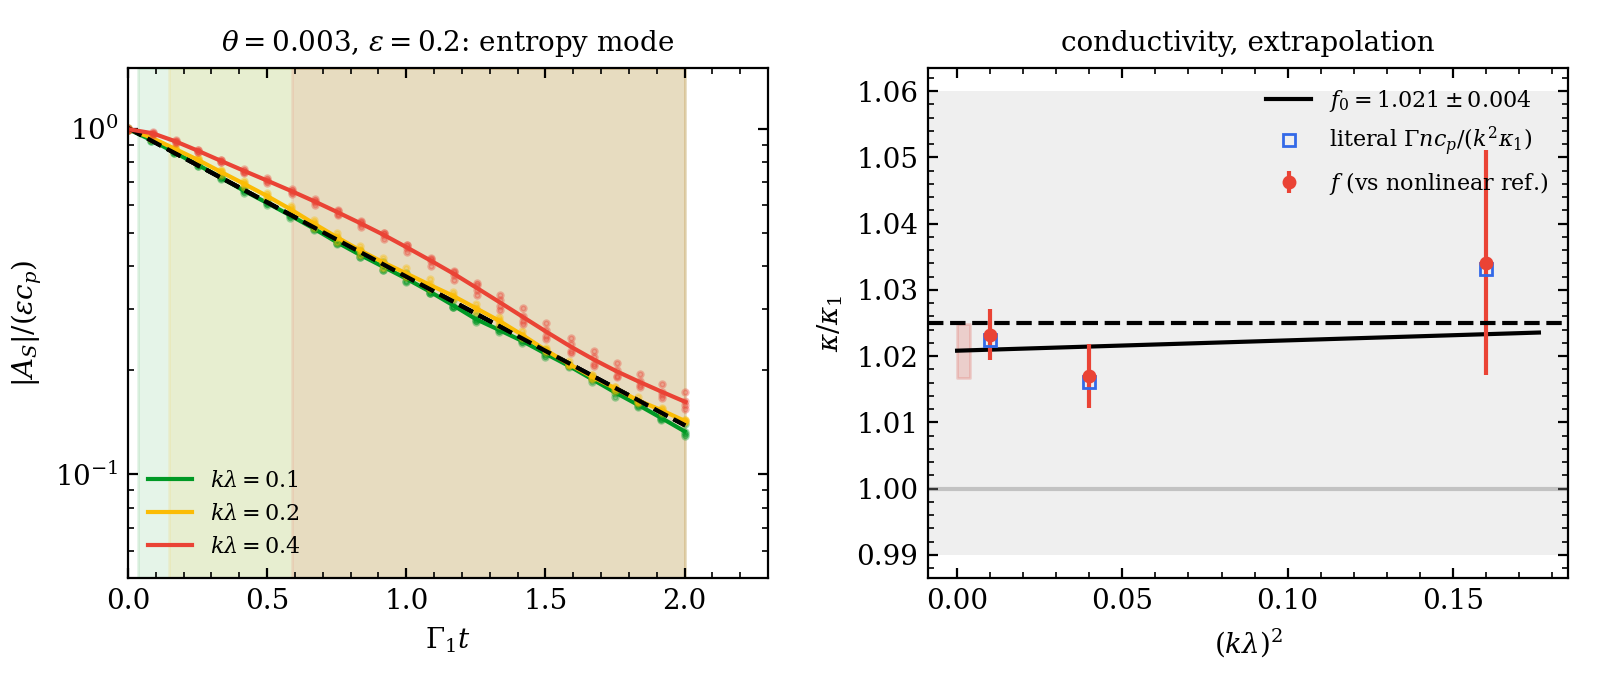
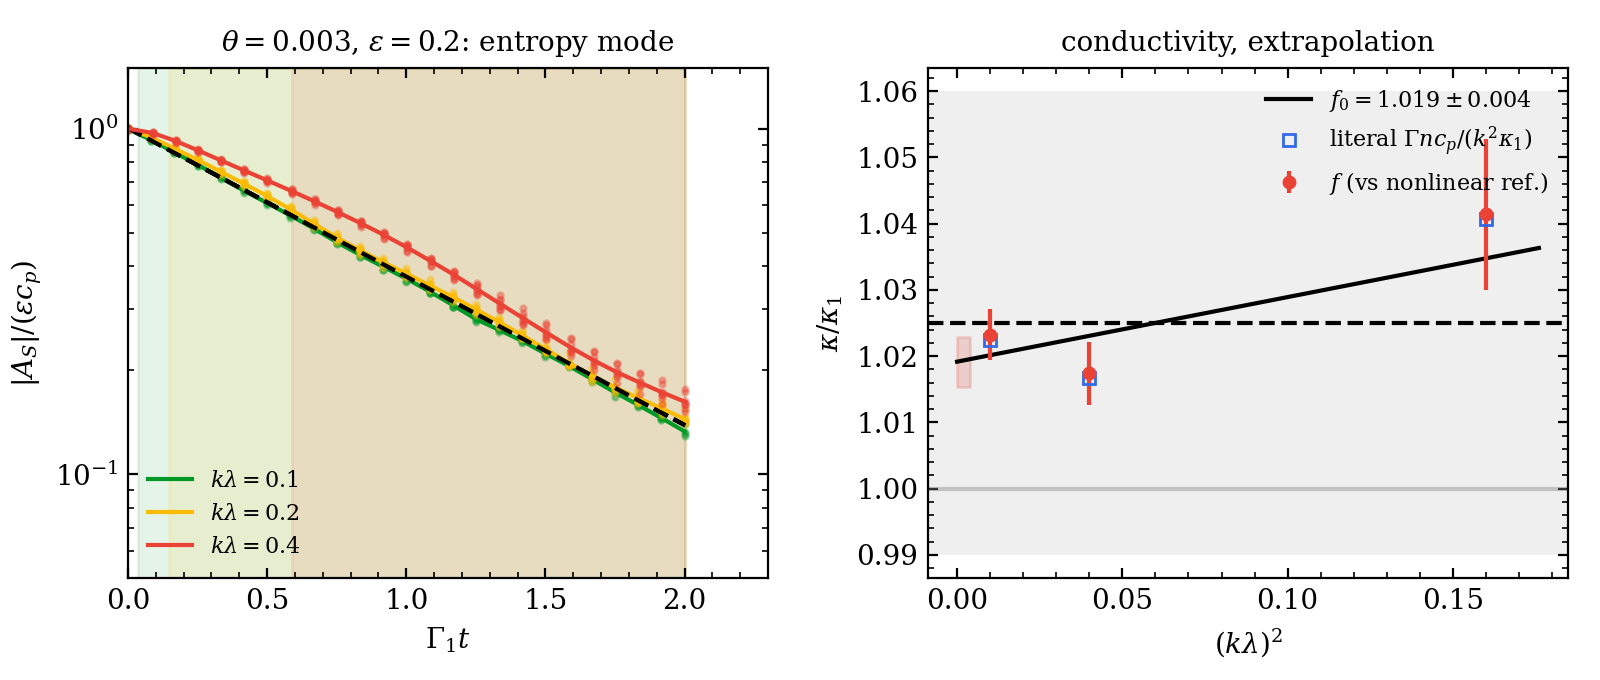
heat: T7 at theta 0.003 with 20 processor runs: kappa/kappa_1 = 1.019 +- 0.004 (analysis C-20261119-161930-acd257b)
Claude-Session: https://claude.ai/code/session_0199y7HEXiYfCzUzsqxwMTnx

diff --git a/tracks/C-sidm/heat/JOURNAL.md b/tracks/C-sidm/heat/JOURNAL.md
@@ -298,3 +298,14 @@ so f from this window is good to a few percent, not to one. A compressible
 (Navier-Stokes-Fourier) reference would remove (ii); a later window would reduce (i).
 Temperature profiles at t = 1, 5.5, 22.5, 56 follow the isobaric reference in shape
 (right panel). The kinetic energy of the slab rings like the mass (lower right).
+
+## 2026-11-19 16:22 T7 at theta = 0.003 with all processor seeds: still PASSED, 1.019 +- 0.004 (runs C-20261119-144545-c606492, C-20261119-155434-8563453; analysis C-20261119-161930-acd257b, which supersedes C-20261119-155257-754a43b)
+
+Seeds 11-14 added at k lambda 0.2 and 0.4: f = 1.0232 +- 0.0039 (0.1, 4 seeds),
+1.0174 +- 0.0047 (0.2, 8 seeds; 0.9913-1.0286), 1.0414 +- 0.0114 (0.4, 8 seeds;
+0.984-1.087). Extrapolated f0 = 1.0192 +- 0.0038, slope 0.098 +- 0.079 in (k lambda)^2,
+chi^2 = 2.4 for one degree of freedom. Pass. The k lambda = 0.4 point lies 2 percent above
+the small-k values (1.2 sd of the slope): a Burnett-order rise of kappa(k) is suggested but
+not resolved. Per-seed scatter at 4e5 particles: 1.3 percent (k lambda 0.2), 3.2 percent
+(0.4), against 2.1 and 3.4 percent from the design Monte Carlo. Number mode alone: 1.052,
+1.111, 1.448. Figure `figs/T7_th0.003_e0.2_cpu.png` replaced (looked at).
